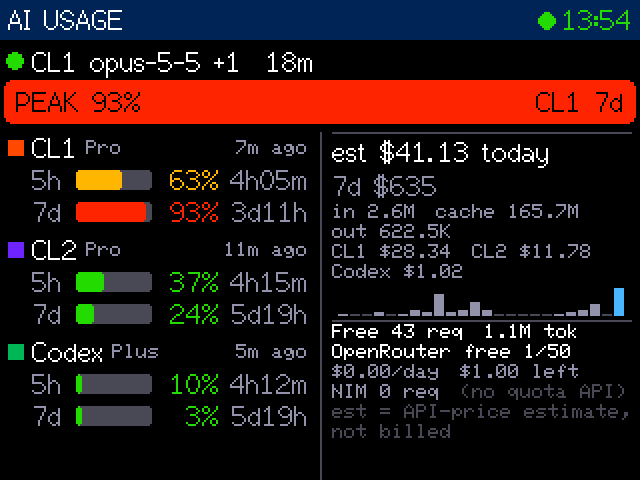
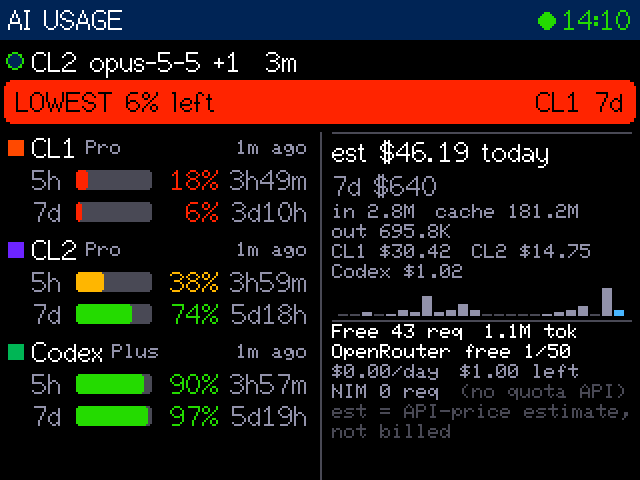
Show quota left by default and banked reset credits per account
SHOW_REMAINING (default 1) flips bars, percentages and the banner to quota left;
colours still follow usage. The service passes T3's resetCredits.availableCount as
rc when above 0, and the firmware shows it as "Pro (1x reset)". screenshot.py
gains --payload for fixture captures.

diff --git a/firmware/AIUsageMonitor/ui.cpp b/firmware/AIUsageMonitor/ui.cpp
@@ -74,6 +74,11 @@ static int text(const char* s, int x, int y, uint8_t font, uint16_t fg, uint8_t 
   return g.textWidth(buf);
 }
 
+// Quota values arrive as percent USED; SHOW_REMAINING flips what is displayed.
+static int shown(int used) { return used < 0 ? -1 : (SHOW_REMAINING ? 100 - min(used, 100) : used); }
+
+// `u` is percent used. The fill follows the display mode; the colour always
+// follows usage, so red means nearly exhausted either way.
 static void bar(int x, int y, int w, int h, int u) {
   TFT_eSPI& g = G();
   g.fillRoundRect(x, y, w, h, 2, col(C_TRACK));
@@ -82,7 +87,7 @@ static void bar(int x, int y, int w, int h, int u) {
     for (int i = x + 3; i < x + w - 2; i += 6) g.drawLine(i, y + h - 2, i + 3, y + 1, col(C_FAINT));
     return;
   }
-  int fw = (int)((long)w * min(u, 100) / 100);
+  int fw = (int)((long)w * shown(u) / 100);
   if (fw > 0) g.fillRoundRect(x, y, max(fw, 3), h, 2, col(levelColor(u)));
 }
 
@@ -146,13 +151,14 @@ static int drawPeak(const Model& m, int x, int y, int w) {
   if (m.hasHi) {
     uint16_t c = levelColor(m.hiU);
     g.fillRoundRect(x + 2, y, w - 4, h - 2, 4, col(c));
-    snprintf(b, sizeof b, "PEAK %d%%", m.hiU);
+    if (SHOW_REMAINING) snprintf(b, sizeof b, "LOWEST %d%% left", shown(m.hiU));
+    else snprintf(b, sizeof b, "PEAK %d%% used", m.hiU);
     text(b, x + 8, y + 3, 2, C_BG, TL_DATUM);
     snprintf(b, sizeof b, "%s %s", m.hiP, m.hiW);
     text(b, x + w - 8, y + 3, 2, C_BG, TR_DATUM);
   } else {
     g.drawRoundRect(x + 2, y, w - 4, h - 2, 4, col(C_MUTED));
-    text("PEAK --  no fresh quota data", x + 8, y + 3, 2, C_MUTED, TL_DATUM, w - 14);
+    text(SHOW_REMAINING ? "LOWEST --  no fresh quota data" : "PEAK --  no fresh quota data", x + 8, y + 3, 2, C_MUTED, TL_DATUM, w - 14);
   }
   return h + 2;
 }
@@ -169,7 +175,12 @@ static int drawAccounts(const Model& m, uint32_t now, int x, int y, int w, int m
     int yy = y + used;
     G().fillRect(x + 4, yy + 4, 8, 8, col(a.color));
     int nw = text(a.p, x + 16, yy, 2, C_TEXT);
-    if (a.pl[0]) text(a.pl, x + 20 + nw, yy + 4, 1, C_MUTED);
+    if (a.pl[0] || a.rc > 0) {
+      char pl[32];
+      if (a.rc > 0) snprintf(pl, sizeof pl, "%s (%dx reset%s)", a.pl, a.rc, a.rc == 1 ? "" : "s");
+      else snprintf(pl, sizeof pl, "%s", a.pl);
+      text(pl, x + 20 + nw, yy + 4, 1, a.rc > 0 ? C_BLUE : C_MUTED, TL_DATUM, w - 70 - nw);
+    }
     if (a.age < 0) snprintf(b, sizeof b, "age ?");
     else {
       fmtDur(d, sizeof d, a.age + elapsed);
@@ -189,7 +200,7 @@ static int drawAccounts(const Model& m, uint32_t now, int x, int y, int w, int m
       int bx = x + 16 + labelW, bw = w - 16 - labelW - pctW - rstW - 8;
       bar(bx, yy + 3, bw, 10, a.stale ? -1 : wd.u);
       if (wd.u < 0) snprintf(b, sizeof b, "--");
-      else snprintf(b, sizeof b, "%d%%", wd.u);
+      else snprintf(b, sizeof b, "%d%%", shown(wd.u));
       text(b, bx + bw + pctW, yy, 2, a.stale ? C_MUTED : levelColor(wd.u), TR_DATUM);
       int32_t r = wd.r > 0 ? max<int32_t>(wd.r - elapsed, 0) : wd.r;
       fmtDur(d, sizeof d, r);

diff --git a/service/tests/test_service.py b/service/tests/test_service.py
@@ -66,6 +66,14 @@ class T3LimitsTests(unittest.TestCase):
         self.assertEqual(acct.windows[1].used_percent, 91)
         self.assertNotIn("secret", json.dumps(acct.__dict__, default=str))
 
+    def test_reset_credits(self):
+        base = {"driver": "claudeAgent", "enabled": True, "usageLimits": {"checkedAt": iso(NOW), "windows": []}}
+        self.write("a.json", {**base, "instanceId": "a", "usageLimits": {**base["usageLimits"], "resetCredits": {"availableCount": 2}}})
+        self.write("b.json", {**base, "instanceId": "b"})
+        by_id = {a.instance_id: a for a in t3_limits.read_accounts(self.home)}
+        self.assertEqual(by_id["a"].reset_credits, 2)
+        self.assertIsNone(by_id["b"].reset_credits)
+
     def test_malformed_and_irrelevant_caches_are_skipped(self):
         self.write("broken.json", "{not json")
         self.write("grok.json", {"driver": "grok", "enabled": True})
@@ -204,6 +212,14 @@ class PayloadTests(unittest.TestCase):
         self.assertEqual(p["act"], {"s": "run", "p": "CL1", "m": "opus-5-5", "t": 20})
         self.assertEqual(p["acc"][0]["w"][0], {"l": "5h", "u": 37, "r": 3600})
         self.assertLess(len(json.dumps(p, separators=(",", ":"))), 2048)
+
+    def test_reset_credits_only_sent_when_available(self):
+        st = self.state()
+        self.assertNotIn("rc", build_payload(st, NOW, PRICING, self.settings())["acc"][0])
+        st.accounts[0].reset_credits = 0
+        self.assertNotIn("rc", build_payload(st, NOW, PRICING, self.settings())["acc"][0])
+        st.accounts[0].reset_credits = 1
+        self.assertEqual(build_payload(st, NOW, PRICING, self.settings())["acc"][0]["rc"], 1)
 
     def test_expired_window_is_unknown_not_zero(self):
         st = self.state()

diff --git a/scripts/screenshot.py b/scripts/screenshot.py
@@ -4,6 +4,7 @@ Usage: python scripts/screenshot.py [--port COM6] [--rot N] [--out shot.png] [--
 
 --rot N   apply rotation N on the device first (until reboot; test only)
 --feed    send the current aimon payload (from http://127.0.0.1:8797/v1/device) first
+--payload FILE   send this JSON payload first (test fixtures, e.g. reset credits)
 If the aimon service is running, it is asked to release the port and resumes afterwards.
 Requires pyserial. The PNG is written with the stdlib (zlib).
 """
@@ -76,12 +77,13 @@ def main() -> None:
     ap.add_argument("--out", default="shot.png")
     ap.add_argument("--scale", type=int, default=2)
     ap.add_argument("--feed", action="store_true")
+    ap.add_argument("--payload", help="JSON file to send before capturing")
     args = ap.parse_args()
 
-    payload = None
+    payload = json.loads(Path(args.payload).read_text(encoding="utf-8")) if args.payload else None
     paused = False
     try:
-        if args.feed:
+        if args.feed and payload is None:
             payload = api("GET", "/v1/device")
         api("POST", "/v1/serial/pause?seconds=60")
         paused = True

diff --git a/service/aimon/snapshot.py b/service/aimon/snapshot.py
@@ -223,6 +223,8 @@ def build_payload(st: State, now: float, pricing: Pricing, settings: Settings, s
             entry["pl"] = acct.plan
         if acct.unavailable:
             entry["x"] = acct.unavailable[:20]
+        if acct.reset_credits:
+            entry["rc"] = acct.reset_credits
         ws = []
         for w in acct.windows[:3]:
             used = -1 if w.used_percent is None else int(round(w.used_percent))
@@ -317,6 +319,7 @@ def build_status(st: State, now: float) -> dict:
                 "source": a.source,
                 "checked_at": a.checked_at,
                 "unavailable": a.unavailable,
+                "reset_credits": a.reset_credits,
                 "windows": [w.__dict__ for w in a.windows],
             }
             for a in st.accounts

diff --git a/firmware/AIUsageMonitor/config.h b/firmware/AIUsageMonitor/config.h
@@ -24,6 +24,14 @@
 #define DISPLAY_ROTATION 2
 #endif
 
+// SHOW_REMAINING: 1 = bars and percentages show quota LEFT (default),
+//                 0 = show quota USED. The top banner follows the same mode
+//                 ("LOWEST 7% left" vs "PEAK 93% used"). Colours always mean the
+//                 same thing: red = nearly exhausted.
+#ifndef SHOW_REMAINING
+#define SHOW_REMAINING 1
+#endif
+
 // Backlight pin (active high) on this board. TFT pins are passed as build
 // flags by scripts/build.ps1 (identical to your TFT_eSPI User_Setup.h).
 #define PIN_BACKLIGHT 27

diff --git a/service/aimon/sources/t3_limits.py b/service/aimon/sources/t3_limits.py
@@ -64,6 +64,9 @@ def parse_cache(doc: dict, instance_id: str, display_names: dict[str, str]) -> A
         acct.unavailable = "signed out" if auth_status == "unauthenticated" else "no limits reported"
         return acct
     acct.checked_at = parse_iso(limits.get("checkedAt"))
+    credits = (limits.get("resetCredits") or {}).get("availableCount")
+    if isinstance(credits, int):
+        acct.reset_credits = credits
     for w in limits.get("windows") or []:
         if not isinstance(w, dict):
             continue

diff --git a/firmware/AIUsageMonitor/model.cpp b/firmware/AIUsageMonitor/model.cpp
@@ -54,6 +54,7 @@ bool parsePayload(const char* json, size_t len, Model& out) {
     d.color = hexTo565(a["c"] | "888888");
     d.age = a["age"] | -1;
     d.stale = (a["st"] | 1) == 1;
+    d.rc = a["rc"] | 0;
     d.nw = 0;
     for (JsonObjectConst w : a["w"].as<JsonArrayConst>()) {
       if (d.nw >= 3) break;

diff --git a/service/aimon/models.py b/service/aimon/models.py
@@ -28,6 +28,7 @@ class Account:
     checked_at: float | None = None
     source: str = "t3_cache"
     unavailable: str | None = None  # reason when no limits are reported
+    reset_credits: int | None = None  # banked limit resets, when the provider reports them
 
 
 @dataclass

diff --git a/firmware/AIUsageMonitor/model.h b/firmware/AIUsageMonitor/model.h
@@ -17,6 +17,7 @@ struct AccData {
   uint16_t color; // RGB565 accent
   int32_t age;    // seconds since the provider was last checked, -1 unknown
   bool stale;
+  int16_t rc;     // banked limit resets available (0 = none or not reported)
   WinData w[3];
   uint8_t nw;
 };

diff --git a/README.md b/README.md
@@ -28,8 +28,9 @@ A small dashboard on the ESP32-2432S024C (2.4" ILI9341) showing AI quota, activi
 
 - **Header:** the green dot plus a time means the last payload is fresh. `!` (amber) means a source failed (named in the footer). `NO DATA 2m` (red) means nothing has arrived for 30 s; the last values stay up, dimmed.
 - **Activity:** a pulsing green dot means a T3 turn is running: account, model, elapsed time, and `+N` other running threads. Otherwise it shows `idle` with the last account and model.
-- **PEAK:** the highest used % among *fresh* quota windows, naming the account and window it comes from. Windows are not averaged together.
-- **Accounts:** one block per subscription (CL1, CL2, Codex). Each shows its 5 h session and 7 d weekly windows: bar, used %, time to reset, and how old T3's reading is.
+- **LOWEST … left** (or **PEAK … used**): the most-depleted *fresh* quota window, naming the account and window it comes from. Windows are not averaged together.
+- **Accounts:** one block per subscription (CL1, CL2, Codex). Each shows its 5 h session and 7 d weekly windows: bar, percent **left** (default; see below), time to reset, and how old T3's reading is. Colours always track usage: red means nearly exhausted.
+  - `Pro (1x reset)` in blue means the provider reports banked limit resets you can redeem in T3 (Usage → Limits → account → **Use reset**). With none, it shows just the plan.
   - `STALE` means older than 20 min.
   - `--` with a hatched bar means not reported or already reset since the last reading. It is never shown as 0.
 - **est $ today / 7d:** the **API-price estimate** of tokens used by the subscription accounts, per account, with a 24 h hourly sparkline. It is *not* money billed to a subscription. `+unpriced` means some models had no known price.
@@ -56,6 +57,10 @@ python scripts\screenshot.py --rot 1 --out build\preview.png
 ```
 
 The PNG shows the frame buffer exactly as sent to the panel.
+
+## Remaining vs. used
+
+`SHOW_REMAINING` in `config.h` (default `1`) shows quota **left**: a full bar is a full allowance. Set it to `0` to show quota **used**; the banner then becomes `PEAK n% used`. Rebuild and flash after changing it.
 
 ## Build, flash, run
 

diff --git a/docs/TEST_REPORT.md b/docs/TEST_REPORT.md
@@ -20,6 +20,16 @@
 | Flash while service running | `flash.ps1` pauses the serial link, uploads, resumes | script output, log `serial.pause_requested` / `resume_requested` |
 | Live quota change | CL2 session moved from 37% to 46% between captures as T3 refreshed | screenshots |
 
+## v1.1.0 additions (verified on device)
+
+| Check | Result | Evidence |
+| --- | --- | --- |
+| Remaining mode (`SHOW_REMAINING 1`) | Bars and % show quota left; banner `LOWEST 6% left CL1 7d`; colours still by usage | `docs/img/rot1.png`, `rot2.png` |
+| Reset credits label | Fixture payload (`rc` 1 and 2) renders `Pro (1x reset)` / `Pro (2x resets)`; real accounts with 0 show `Pro` | frame-buffer capture from a fixture via `screenshot.py --payload` |
+| Service passes `rc` only when > 0 | 2 new unit tests (22 total) | `service/tests` |
+
+`SHOW_REMAINING 0` is a compile-time constant in the same code paths, so it builds in the same binary layout. It was not flashed.
+
 ## Verified in the service
 
 - 20 unit tests (`service/tests`), all fixture-based with no network:

diff --git a/docs/PROJECT_LOG.md b/docs/PROJECT_LOG.md
@@ -1,5 +1,11 @@
 # Project log
 
+## 2026-10-21: v1.1.0
+
+- **Show quota left by default** (`SHOW_REMAINING 1`, user preference), keeping "used" as a config option. Colours stay keyed to usage so red always means "nearly out", whichever number is shown.
+- **Reset credits** come from T3's cache (`usageLimits.resetCredits.availableCount`, the same count T3 shows next to **Use reset**). They are sent only when above 0 and shown as `Pro (Nx reset)`.
+- Done inline rather than delegated: three small edits, and the firmware half needed the device loop.
+
 ## 2026-10-21: v1.0.0
 
 - **Hardware identified before any code.**
